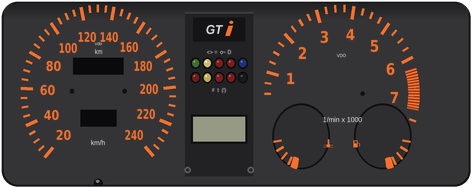
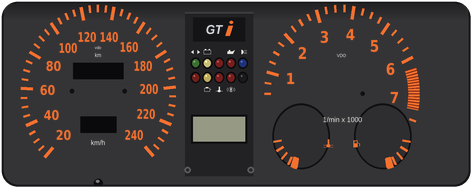
Gaúcho GTI: máxima 210 km/h, hodômetros sem encostar no miolo e ícones das luzes-espia desenhados (v0.24.5)
Claude-Session: https://claude.ai/code/session_01MLD9VR7gkmY4w6a9beZcp6

diff --git a/src/carsbr.ts b/src/carsbr.ts
@@ -45,7 +45,7 @@ export const BR_CARS: CarSpec[] = [
   spec({ id: 'br-charger', name: 'Carregador R/T', basedOn: 'Dodge Charger R/T 318 V8 (1971)', color: '#e8a018', price: 24000, position: 'dianteira', engine: 'V8', cc: 5212, cv: 215, kmh: 190, z100: 11.0, kg: 1500, gears: G4, curve: 'torque', lat: 0.72, brake: 0.8, handling: 0.78 }),
   spec({ id: 'br-maverick', name: 'Mavério GT', basedOn: 'Ford Maverick GT V8 302 (1974)', color: '#1a7a3a', price: 23000, position: 'dianteira', engine: 'V8', cc: 4950, cv: 197, kmh: 185, z100: 10.5, kg: 1350, gears: G4, curve: 'torque', lat: 0.74, brake: 0.8, handling: 0.8 }),
   // ---- classe D ----
-  { ...fwd(spec({ id: 'br-golgti', name: 'Gaúcho GTI', basedOn: 'VW Gol GTI 2.0 (1993)', color: '#1e1e24', price: 16000, position: 'dianteira', engine: '4 cil. 8v', cc: 1984, cv: 120, kmh: 185, z100: 9.2, kg: 970, curve: 'torque', lat: 0.86, brake: 0.92, handling: 1.0 })), dash: 'br-golgti', cockpitPaint: '#1e1e24', rear: { h: 0.94, roof: 0.62, lights: 'rect', wing: 1, glow: { dots: [[0.135, 0.62], [0.27, 0.62], [0.73, 0.62], [0.865, 0.62]] } } },
+  { ...fwd(spec({ id: 'br-golgti', name: 'Gaúcho GTI', basedOn: 'VW Gol GTI 2.0 (1993)', color: '#1e1e24', price: 16000, position: 'dianteira', engine: '4 cil. 8v', cc: 1984, cv: 120, kmh: 210, z100: 9.2, kg: 970, curve: 'torque', lat: 0.86, brake: 0.92, handling: 1.0 })), dash: 'br-golgti', cockpitPaint: '#1e1e24', rear: { h: 0.94, roof: 0.62, lights: 'rect', wing: 1, glow: { dots: [[0.135, 0.62], [0.27, 0.62], [0.73, 0.62], [0.865, 0.62]] } } },
   { ...fwd(spec({ id: 'br-kadett', name: 'Cadete GSi', basedOn: 'Chevrolet Kadett GSi 2.0 (1989)', color: '#f0c000', price: 17000, position: 'dianteira', engine: '4 cil. 8v', cc: 1998, cv: 121, kmh: 190, z100: 9.6, kg: 1030, curve: 'torque', lat: 0.85, brake: 0.9, handling: 0.97 })), dash: 'br-kadett', rear: { h: 0.75, roof: 0.62, lights: 'rect', wing: 1, glow: { dots: [[0.11, 0.4], [0.89, 0.4]] } } },
   fwd(spec({ id: 'br-xr3', name: 'Escoltar XR3', basedOn: 'Ford Escort XR3 2.0i (1993)', color: '#1a3aa8', price: 16500, position: 'dianteira', engine: '4 cil. 8v', cc: 1984, cv: 115, kmh: 185, z100: 9.8, kg: 1050, curve: 'torque', lat: 0.85, brake: 0.9, handling: 0.97 })),
   { ...fwd(spec({ id: 'br-corsa', name: 'Corsário GSi', basedOn: 'Chevrolet Corsa GSi 1.6 16v (1995)', color: '#ececec', price: 14000, position: 'dianteira', engine: '4 cil. 16v', cc: 1598, cv: 108, kmh: 190, z100: 9.5, kg: 950, curve: 'vtec', lat: 0.85, brake: 0.92, handling: 1.03 })), dash: 'br-corsa', rear: { h: 0.88, roof: 0.6, lights: 'rect', wing: 1, glow: { dots: [[0.105, 0.47], [0.895, 0.47]] } } },

diff --git a/src/photos.ts b/src/photos.ts
@@ -63,7 +63,7 @@ export const DIA_PHOTOS: Photo[] = [
 ].filter((p) => !!p.src);
 export const GOL_PHOTOS: Photo[] = [
   { src: ph('gol-preto'), kicker: 'ENSAIO', kc: '#d01f26', title: 'GAÚCHO GTI', sub: 'O esportivo nacional de injeção', inside: ['AP 2.0 de 120 cv', 'Faróis de milha de série', 'Bancos com tecido xadrez'], box: [35, 75, 530, 282] },
-  { src: ph('gol-amarelo'), kicker: 'TESTE', kc: '#1e4fb8', title: 'GTI NA ESTRADA', sub: 'Aerofólio, escape duplo e 185 km/h', inside: ['0 a 100 em 9,2 s', 'Consumo na serra', 'Rodas de liga leve'], box: [62, 95, 530, 278] },
+  { src: ph('gol-amarelo'), kicker: 'TESTE', kc: '#1e4fb8', title: 'GTI NA ESTRADA', sub: 'Aerofólio, escape duplo e 210 km/h', inside: ['0 a 100 em 9,2 s', 'Consumo na serra', 'Rodas de liga leve'], box: [62, 95, 530, 278] },
   { src: ph('gol-giro'), kicker: 'TÉCNICA', kc: '#1a1614', title: 'ATÉ O CORTE', sub: 'Conta-giros VDO e motor AP', inside: ['Leia o painel do GTI', 'Faixa vermelha em 6.250', 'Relógio digital no meio'], box: [150, 100, 410, 315] },
   { src: ph('gol-motor'), kicker: 'OFICINA', kc: '#1a6a2a', title: 'INJEÇÃO ELETRÔNICA', sub: 'O primeiro nacional injetado', inside: ['Revisão da injeção', 'Velas e cabos', 'Filtro de ar esportivo'], box: [60, 40, 540, 315] },
 ].filter((p) => !!p.src);

diff --git a/src/cockpit.ts b/src/cockpit.ts
@@ -256,8 +256,8 @@ COCKPIT_ART['br-golgti'] = {
     { x: 164.7, y: 65.1, r: 5.6, kind: 'single', show: ['fuel'], arc: [80 * GOL_DEG, 10 * GOL_DEG], needleOnly: true, hubR: 0 },
   ],
   extra: (c, ox, r) => {
-    odometer(c, ox, r, { x: 87.6, y: 45.8, w: 12, h: 3.5 }, 86476, 6, 0.5);
-    odometer(c, ox, r, { x: 89.4, y: 58.8, w: 8.4, h: 3.5 }, 168.5, 4, 0.5, true);
+    odometer(c, ox, r, { x: 87.6, y: 47.0, w: 12, h: 3.5 }, 86476, 6, 0.5);
+    odometer(c, ox, r, { x: 89.4, y: 60.4, w: 8.4, h: 3.5 }, 168.5, 4, 0.5, true);
     const now = new Date();
     pix(c, `${now.getHours()}:${String(now.getMinutes()).padStart(2, '0')}`, ox + 123.8, ART_TOP + 63.3, '#1e2616', 0.5);
   },

diff --git a/tools/ref/gol_gauges.py b/tools/ref/gol_gauges.py
@@ -74,10 +74,10 @@ def speed(d):
         x, y = at(g, fr(v), g['r'] - 6.9)
         label(str(v), x, y, 3.5, squeeze=0.66 if v >= 100 else 0.8)
     x, y = P(g['x'], g['y'])
-    label('vdo', x, y - K * 12.4, 1.3, FR, col=WHITE)
-    label('km', x, y - K * 10.4, 1.7, FR, col=WHITE)
+    label('vdo', x, y - K * 11.6, 1.2, FR, col=WHITE)
+    label('km', x, y - K * 9.6, 1.5, FR, col=WHITE)
     label('km/h', x, y + K * 12.2, 1.9, FR, col=WHITE)
-    for bx, by, bw in ((-6.0, -8.6, 12), (-4.2, 4.4, 8.4)):   # janelas do hodômetro e do parcial
+    for bx, by, bw in ((-6.0, -7.4, 12), (-4.2, 6.0, 8.4)):   # janelas do hodômetro e do parcial
         x0, y0 = P(g['x'] + bx, g['y'] + by)
         d.rectangle([x0 - K * 0.3, y0 - K * 0.3, x0 + (bw + 0.3) * K, y0 + 3.8 * K], fill=(10, 10, 12))
     for sx in (-1, 1):  # parafusos dos lados do eixo
@@ -156,6 +156,51 @@ def gti_logo(d, cx, cy):
     d.ellipse([cx + K * 2.6, cy - K * 2.2, cx + K * 3.5, cy - K * 1.4], fill=INK)
 
 
+def icons(d, x0, x1):
+    """pictogramas brancos das luzes-espia (como na foto): em cima setas, bateria ... almotolia e
+    farol; embaixo injeção/motor, temperatura e freio de mão"""
+    u = K * 0.36
+    W_ = WHITE
+    col = lambda i: P(x0 + 2.6 + i * (x1 - x0 - 5.2) / 4, 0)[0]
+    yt, yb = P(0, 44.0)[1], P(0, 53.4)[1]
+    lw = max(1, int(0.45 * u))
+    # setas do pisca
+    cx = col(0)
+    d.polygon([(cx - 3 * u, yt), (cx - 1.4 * u, yt - 1.3 * u), (cx - 1.4 * u, yt + 1.3 * u)], fill=W_)
+    d.polygon([(cx + 3 * u, yt), (cx + 1.4 * u, yt - 1.3 * u), (cx + 1.4 * u, yt + 1.3 * u)], fill=W_)
+    # bateria
+    cx = col(1)
+    d.rectangle([cx - 2.4 * u, yt - 1.2 * u, cx + 2.4 * u, yt + 1.5 * u], outline=W_, width=lw)
+    d.rectangle([cx - 1.8 * u, yt - 1.9 * u, cx - 0.9 * u, yt - 1.2 * u], fill=W_)
+    d.rectangle([cx + 0.9 * u, yt - 1.9 * u, cx + 1.8 * u, yt - 1.2 * u], fill=W_)
+    # almotolia de óleo
+    cx = col(3)
+    d.polygon([(cx - 2.4 * u, yt - 0.3 * u), (cx + 0.8 * u, yt - 0.3 * u), (cx + 2.6 * u, yt - 1.3 * u), (cx + 1.2 * u, yt + 1.2 * u), (cx - 2.4 * u, yt + 1.2 * u)], fill=W_)
+    d.rectangle([cx - 1.6 * u, yt - 1.3 * u, cx - 0.6 * u, yt - 0.3 * u], fill=W_)
+    # farol
+    cx = col(4)
+    d.chord([cx - 2.6 * u, yt - 1.6 * u, cx + 0.6 * u, yt + 1.6 * u], 270, 90, fill=W_)
+    for k in (-1, 0, 1):
+        d.line([(cx + 1.0 * u, yt + k * 1.0 * u), (cx + 2.8 * u, yt + k * 1.0 * u)], fill=W_, width=lw)
+    # motor (injeção)
+    cx = col(1)
+    d.rectangle([cx - 2.0 * u, yb - 1.0 * u, cx + 1.6 * u, yb + 1.4 * u], outline=W_, width=lw)
+    d.rectangle([cx - 1.0 * u, yb - 1.8 * u, cx + 0.6 * u, yb - 1.0 * u], fill=W_)
+    d.line([(cx + 1.6 * u, yb), (cx + 2.6 * u, yb)], fill=W_, width=lw)
+    # temperatura (termômetro com ondas)
+    cx = col(2)
+    d.rectangle([cx - 0.35 * u, yb - 2.0 * u, cx + 0.35 * u, yb + 0.6 * u], fill=W_)
+    d.ellipse([cx - 0.9 * u, yb + 0.2 * u, cx + 0.9 * u, yb + 1.8 * u], fill=W_)
+    d.line([(cx - 2.4 * u, yb + 1.0 * u), (cx + 2.4 * u, yb + 1.0 * u)], fill=W_, width=lw)
+    # freio de mão: (!) dentro de um círculo com arcos
+    cx = col(3)
+    d.ellipse([cx - 1.6 * u, yb - 1.6 * u, cx + 1.6 * u, yb + 1.6 * u], outline=W_, width=lw)
+    d.rectangle([cx - 0.3 * u, yb - 1.0 * u, cx + 0.3 * u, yb + 0.4 * u], fill=W_)
+    d.rectangle([cx - 0.3 * u, yb + 0.8 * u, cx + 0.3 * u, yb + 1.1 * u], fill=W_)
+    for sx in (-1, 1):
+        d.arc([cx - 2.6 * u, yb - 2.2 * u, cx + 2.6 * u, yb + 2.2 * u], 140 if sx < 0 else -40, 220 if sx < 0 else 40, fill=W_, width=lw)
+
+
 def middle(d):
     x0, x1 = MID
     a, b = P(x0, 34.0), P(x1, 75.0)
@@ -166,8 +211,7 @@ def middle(d):
     cx = (x0 + x1) / 2
     gti_logo(d, P(cx, 0)[0], P(0, 38.4)[1])
     # ícones de cima (setas, bateria ... óleo, farol) e de baixo (motor, água, freio), em branco
-    label('<> =  o~ D', P(cx, 0)[0], P(0, 44.0)[1], 1.5, FR, 0.86, col=WHITE)
-    label('#  t  (!)', P(cx, 0)[0], P(0, 53.6)[1], 1.5, FR, 0.86, col=WHITE)
+    icons(d, x0, x1)
     # luzes-espia: duas fileiras de cinco (apagadas, cores da lente)
     cols = [(60, 110, 50), (200, 190, 120), (120, 30, 30), (120, 30, 30), (30, 50, 120)]
     cols2 = [(110, 30, 26), (190, 170, 90), (120, 30, 30), (120, 30, 30), (26, 26, 28)]
